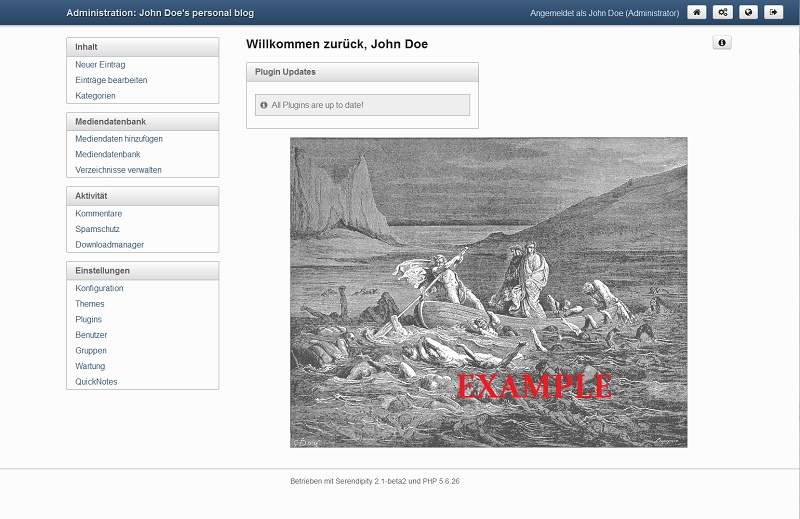
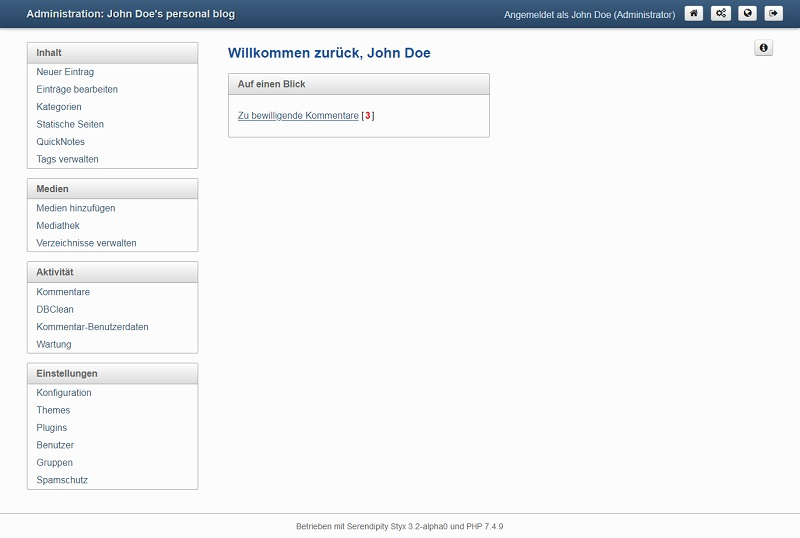
styx theme: Update backend preview and login

diff --git a/templates/styx/UTF-8/lang_info_de.inc.php b/templates/styx/UTF-8/lang_info_de.inc.php
@@ -20,7 +20,8 @@ Momentan enthält es nur eine Index-Template-Datei, die relevante Informationen 
 * 2017-08-21 - Neu hinzugekommen ist ein Bugfix für die Backend-Ansichten mit "rtl" (right-to-left), auf rechts gedrehtes Schrift-Attribut im &lt;html&gt; Element.<br>
 * 2019-09-08 - Die IE8/9 workarounds wurden entfernt.<br>
 * 2020-03-25 - Hervorhebung der Styx message styles.<br>
-* 2020-06-06 - Verkleinertes font-size der entry_info styles der Entries Liste.<br><br>
+* 2020-06-06 - Verkleinertes font-size der entry_info styles der Eintrags Liste.<br>
+* 2020-08-31 - Verbesserung der Login Seite und Update des fullsize preview.<br><br>
 
 DAS FOLGENDE IST DIE BESCHREIBUNG DES FALLBACK BACKENDS&colon;<br>
 Dieses Theme beherbergt die Styx-Kern Backend Templates im Unterverzeichnis "default/admin".

diff --git a/templates/styx/lang_info_en.inc.php b/templates/styx/lang_info_en.inc.php
@@ -20,7 +20,8 @@ For the moment it solely includes an index template file, which removes relevant
 * 2017-08-21 - Newly fixes a UI breaking issue with the rtl (right-to-left) direction attribute in the &lt;html&gt; element.<br>
 * 2019-09-08 - Removed the IE8/9 workarounds.<br>
 * 2020-03-25 - Sign out Styx message styles with a "marked" left border.<br>
-* 2020-06-06 - Smaller font-size of entry_info styles of entries list.<br><br>
+* 2020-06-06 - Smaller font-size of entry_info styles of entries list.<br>
+* 2020-08-31 - Improved login page and update fullsize preview.<br><br>
 
 THE FOLLOWING IS THE DESCRIPTION OF THE RELEGATED BACKEND&colon;<br>
 The template files in that directory build and create the look of the complete admin interface.
